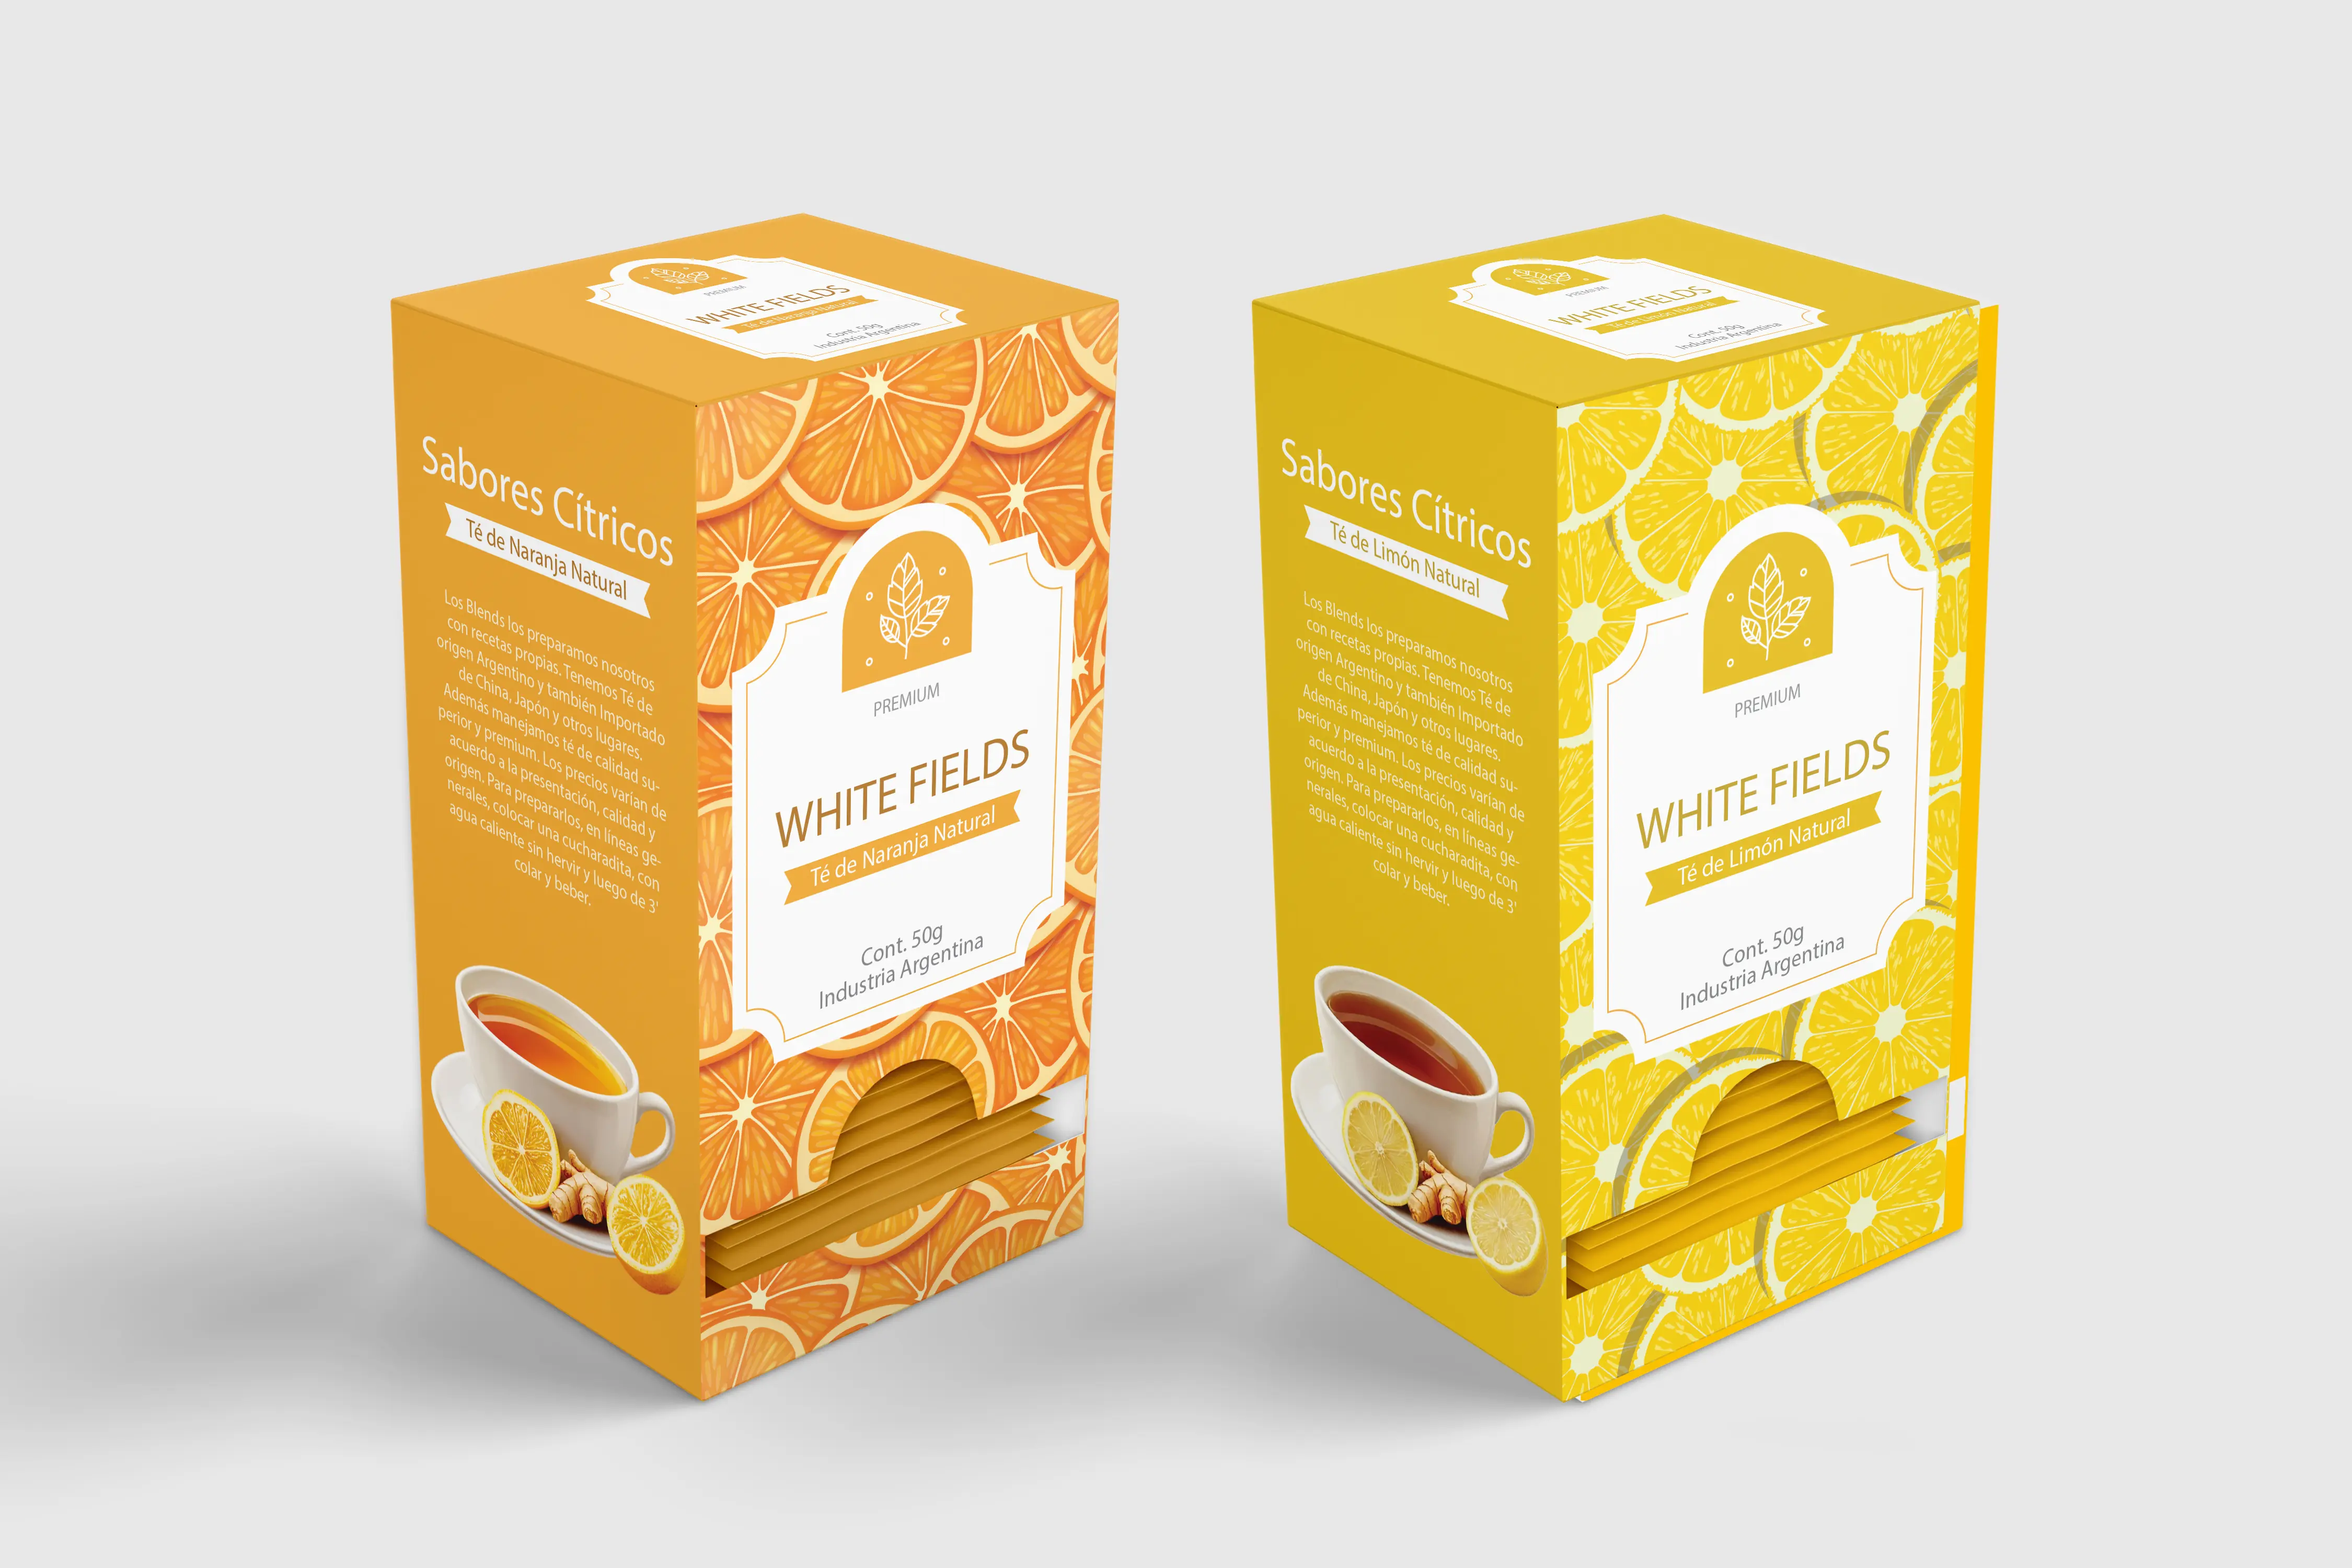
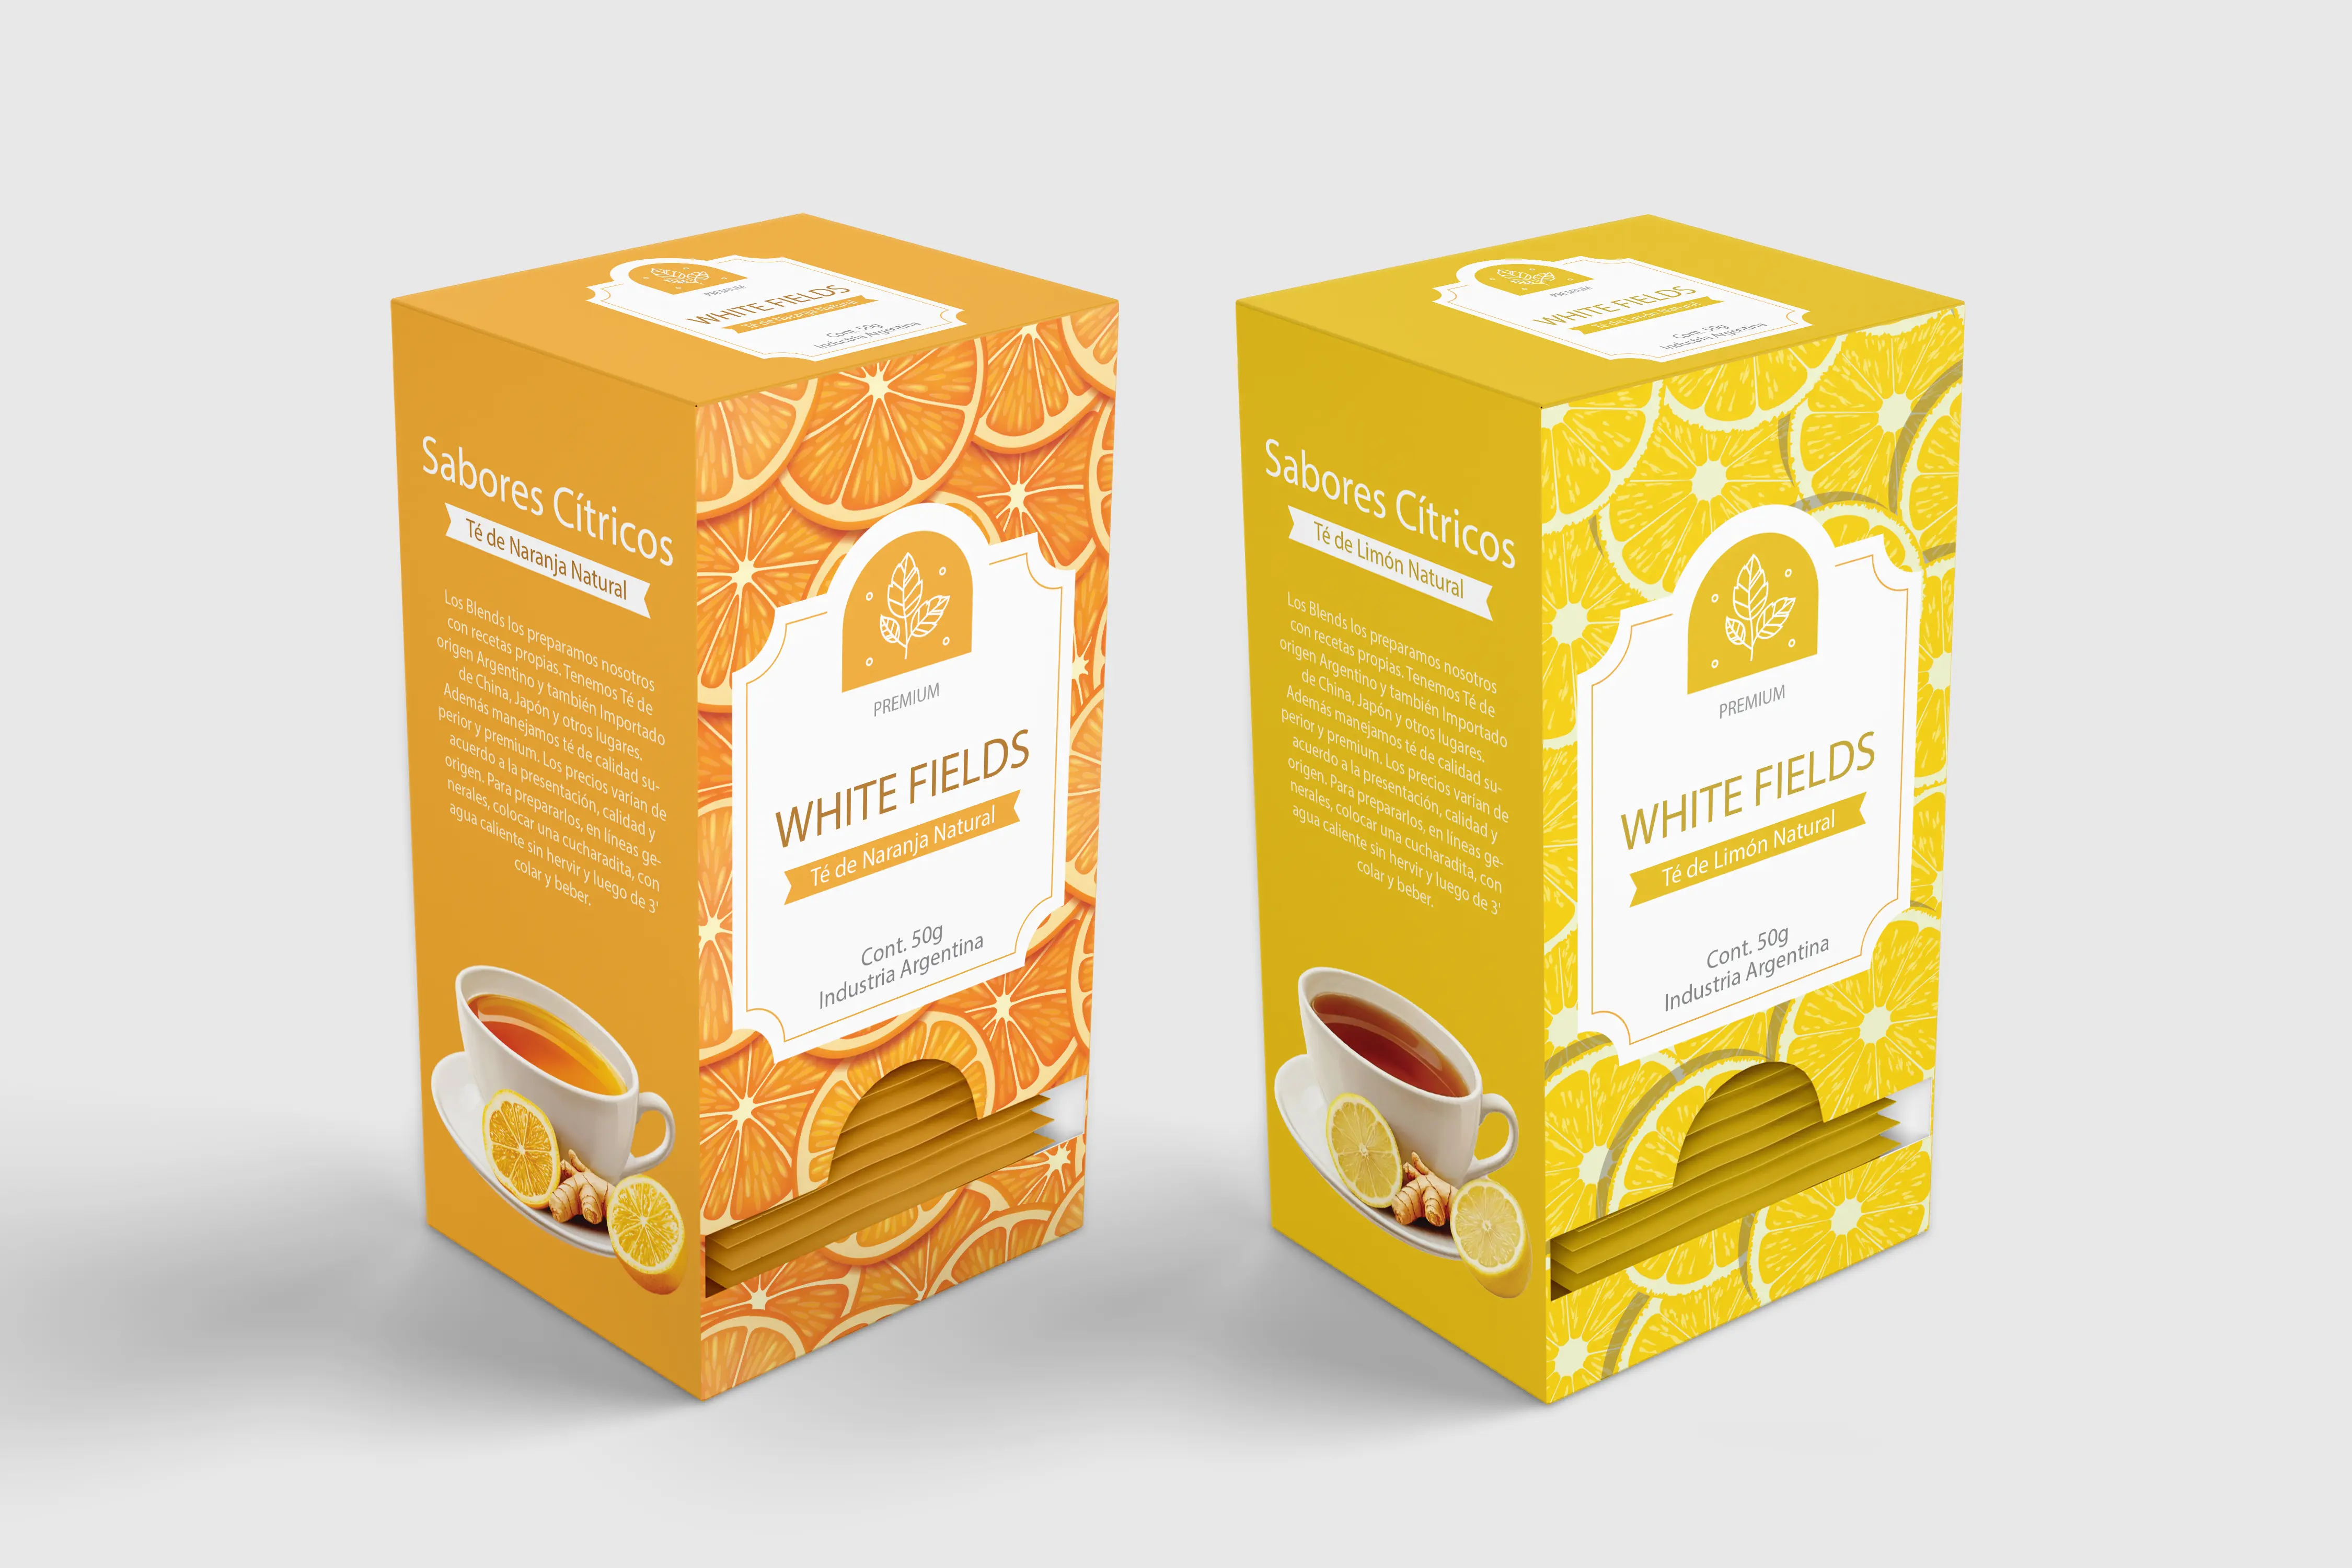
hertz

Changed region(s): [[0.5289, 0.124, 0.8711, 0.899]]

diff --git a/src/data/Projects.js b/src/data/Projects.js
@@ -19,6 +19,7 @@ import Portada_Fruits from '../assets/images/Packaging/Portada_Fruits.webp';
 import Portada_Crown from '../assets/images/Packaging/Portada_Crown.webp';
 import Portada_Artistik from '../assets/images/Packaging/Portada_Artistik.webp';
 import Portada_WhiteFields from '../assets/images/Packaging/Portada_WhiteFields.webp';
+import Portada_Hertz from '../assets/images/Packaging/Portada_Hertz.webp';
 import Portada_Fidelity from '../assets/images/Campañas/Portada_Fidelity.webp';
 import Portada_ConsumerPulse from '../assets/images/Campañas/Portada_ConsumerPulse.webp';
 import Portada_TrueLoyalty from '../assets/images/Campañas/Portada_TrueLoyalty.webp';
@@ -98,6 +99,9 @@ import Artistik2 from '../assets/images/Packaging/Galeria/Artistik2.webp';
 
 import WhiteFields1 from '../assets/images/Packaging/Galeria/WhiteFields1.webp';
 import WhiteFields2 from '../assets/images/Packaging/Galeria/WhiteFields2.webp';
+
+import Hertz1 from '../assets/images/Packaging/Galeria/Hertz1.webp';
+import Hertz2 from '../assets/images/Packaging/Galeria/Hertz2.webp';
 
 // Editorial Gallery
 import Maison1 from '../assets/images/Editorial/Galeria/Maison1.webp';
@@ -591,7 +595,6 @@ const rawProjects = [
     gallery: [Crown1, Crown2]
   },
   {
-    id: 28,
     title: "Artistik",
     category: "Packaging",
     image: Portada_Artistik,
@@ -618,7 +621,6 @@ const rawProjects = [
     gallery: [Artistik1, Artistik2]
   },
   {
-    id: 29,
     title: "White Fields",
     category: "Packaging",
     image: Portada_WhiteFields,
@@ -643,6 +645,32 @@ const rawProjects = [
     ],
     solution: "Se implementó un diseño de 'super-gráfico' basado en rodajas de frutas (limón y naranja) que envuelven la totalidad del envase[cite: 1]. Se utilizó un panel central blanco con bordes ornamentales para enmarcar la marca, creando un contraste de 'aire' visual que equilibra la intensidad cromática del patrón cítrico[cite: 1]. La inclusión de un mockup lateral con una taza e ingredientes reales (jengibre y rodajas) refuerza la promesa de sabor natural[cite: 1].",
     gallery: [WhiteFields1, WhiteFields2]
+  },
+  {
+    title: "Hertz",
+    category: "Packaging",
+    image: Portada_Hertz,
+    slug: "cerveza-hertz",
+    year: "2024",
+    services: "Branding / Diseño de Etiqueta / Estrategia de Producto",
+    problem: "La necesidad de crear una marca de cerveza artesanal que se distancie de los códigos visuales rústicos habituales, buscando una identidad que evoque elegancia, ritmo y tradición desde una perspectiva técnica y artística.",
+    objective: "Posicionar a Hertz como una cerveza de autor donde cada variedad representa una 'nota musical' distinta, utilizando la herencia histórica y la precisión del sonido como pilares de marca.",
+    challenge: "Integrar iconografía musical compleja (instrumentos como el saxofón y el arpa) en una etiqueta de estilo heráldico sin perder la legibilidad de la marca y manteniendo un equilibrio entre lo clásico y lo moderno.",
+    colors: ["#A31D24", "#C6A15B", "#E6E7E8", "#1A1A1B"],
+    fonts: "Bodoni / Montserrat",
+    metrics: [
+      { name: "Jerarquía Visual", percentage: 95 },
+      { name: "Diferenciación de Estilo", percentage: 97 },
+      { name: "Percepción Premium", percentage: 93 },
+      { name: "Coherencia Histórica", percentage: 90 },
+    ],
+    impact: [
+      { label: "Origen", value: "USA" },
+      { label: "Estilos", value: "Jazz" },
+      { label: "Concepto", value: "Hz" },
+    ],
+    solution: "Se desarrolló un sistema de etiquetas circulares con bandas rojas transversales que contienen la tipografía principal 'HERTZ' en un estilo serif robusto[cite: 1]. Para la variante 'Estadounidense', se utilizó la ilustración de un saxofón, evocando el Jazz; para la variante 'Alemana', se utilizó un arpa, simbolizando la música clásica europea[cite: 1]. El uso de acabados en oro y plata refuerza la categoría artesanal premium del producto[cite: 1].",
+    gallery: [Hertz1, Hertz2]
   },
   // --- CAMPAÑAS ---
   {